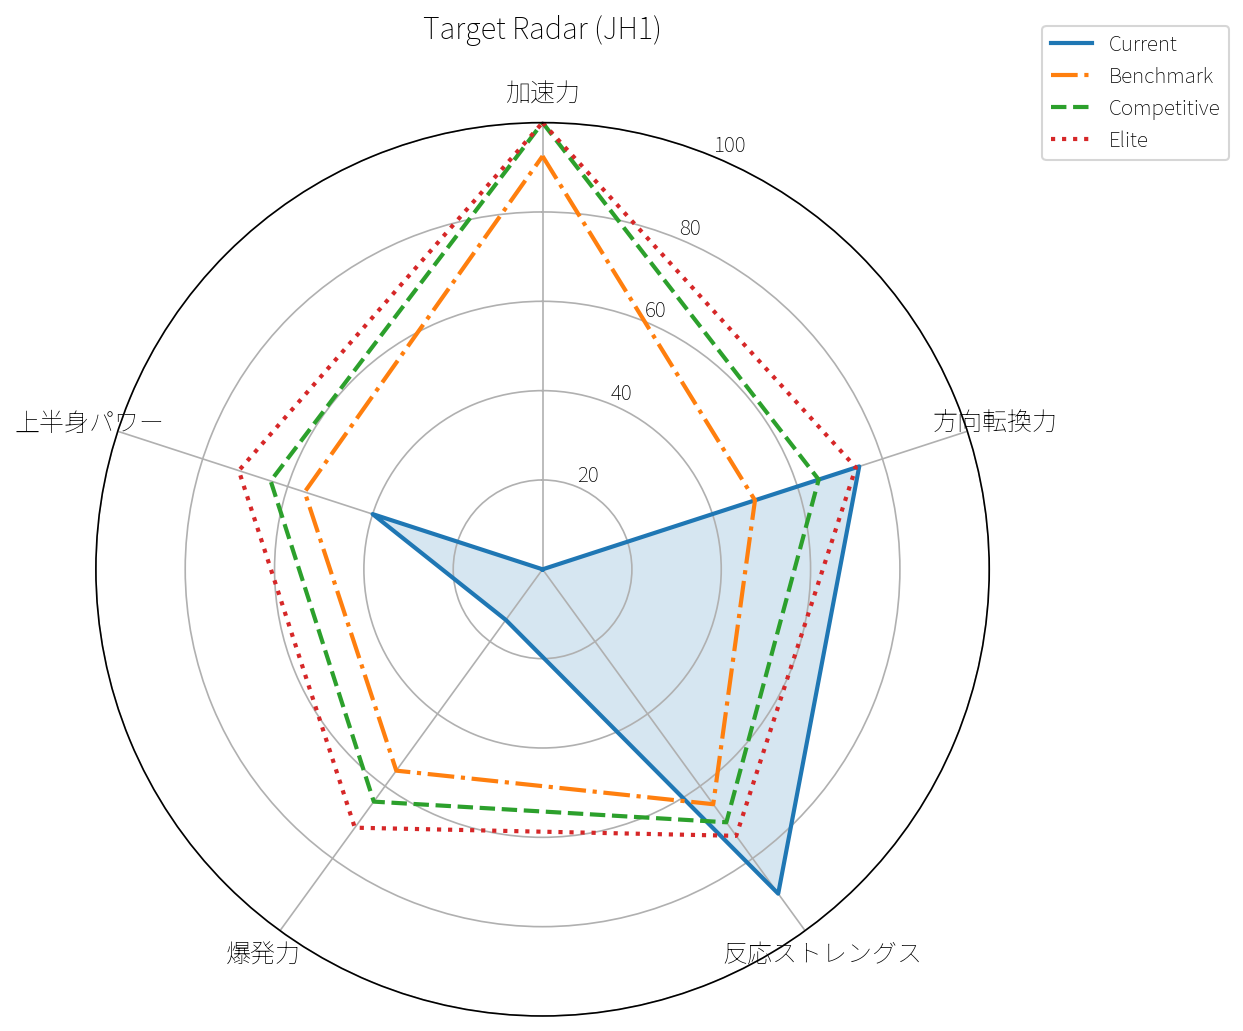
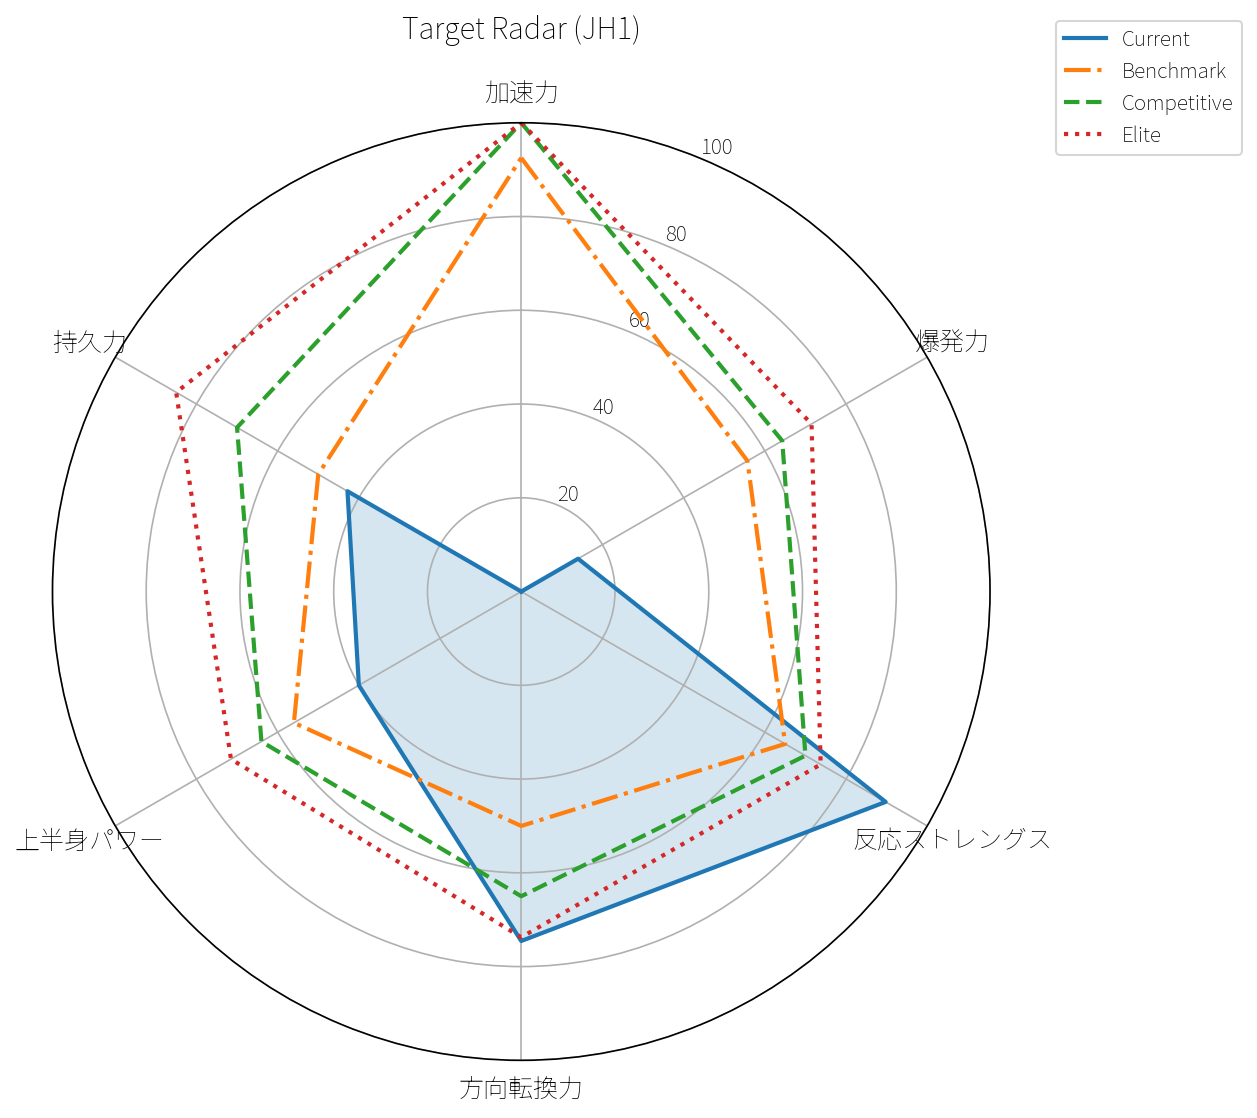
Fix target radar to include endurance axis

diff --git a/scripts/generate_target_radar_v2.py b/scripts/generate_target_radar_v2.py
@@ -34,10 +34,11 @@ OUTPUT_GAP = OUTPUT_DIR / "target_gap_summary.md"
 
 AXES = [
     ("10m_s", "10m_sprint", "acceleration", "lower", None),
-    ("COD_s", "pro_agility_5_10_5", "cod", "lower", None),
-    ("RSI", "rsi", "reactive_strength", "higher", None),
     ("CMJ_cm", "cmj", "explosive_power", "higher", None),
+    ("RSI", "rsi", "reactive_strength", "higher", None),
+    ("COD_s", "pro_agility_5_10_5", "cod", "lower", None),
     ("MBT_m", "medicine_ball_throw_2kg", "upper_body_power", "higher", None),
+    ("YoYo_m", "yoyo_ir1", "endurance", "higher", None),
 ]
 
 RAW_LABELS = {
@@ -46,6 +47,7 @@ RAW_LABELS = {
     "rsi": ("RSI", ""),
     "cmj": ("CMJ", "cm"),
     "medicine_ball_throw_2kg": ("MBT 2kg", "m"),
+    "yoyo_ir1": ("Yo-Yo IR1", "m"),
 }
 
 for font_name in ["Noto Sans JP", "Yu Gothic", "Meiryo", "MS Gothic"]:

diff --git a/docs/logs/daily_notes.md b/docs/logs/daily_notes.md
@@ -253,8 +253,36 @@
 ### 2026-04-24
 
 - 朝：普通
+- 夕方：なし
+- 足の状態：普通
+- 気づき：なし
+
+### 2026-04-25
+
+- 朝：普通
+- 夕方：なし
+- 足の状態：普通
+- 気づき：なし
+
+### 2026-04-26
+
+- 朝：普通
+- 夕方：なし
+- 足の状態：普通
+- 気づき：試合でオフザボールの時のランがゆっくり
+
+### 2026-04-27
+
+- 朝：軽め
+- 夕方：なし
+- 足の状態：若干の疲労感
+- 気づき：なし
+
+### 2026-04-28
+
+- 朝：普通
 - 夕方：
-- 足の状態：
+- 足の状態：普通
 - 気づき：
 
 ---

diff --git a/docs/dashboards/target_gap_summary.md b/docs/dashboards/target_gap_summary.md
@@ -3,7 +3,8 @@
 ### Elite 目標との差
 
 - 10m: 現在 2.55s / Elite目標 1.60s / 差 0.95s
-- COD: 現在 6.08s / Elite目標 6.10s / 超過 0.02s
-- RSI: 現在 2.19 / Elite目標 1.70 / 超過 0.49
 - CMJ: 現在 15.40cm / Elite目標 36.00cm / 差 20.60cm
+- RSI: 現在 2.19 / Elite目標 1.70 / 超過 0.49
+- COD: 現在 6.08s / Elite目標 6.10s / 超過 0.02s
 - MBT 2kg: 現在 3.00m / Elite目標 4.60m / 差 1.60m
+- Yo-Yo IR1: 現在 820.00m / Elite目標 2000.00m / 差 1180.00m
